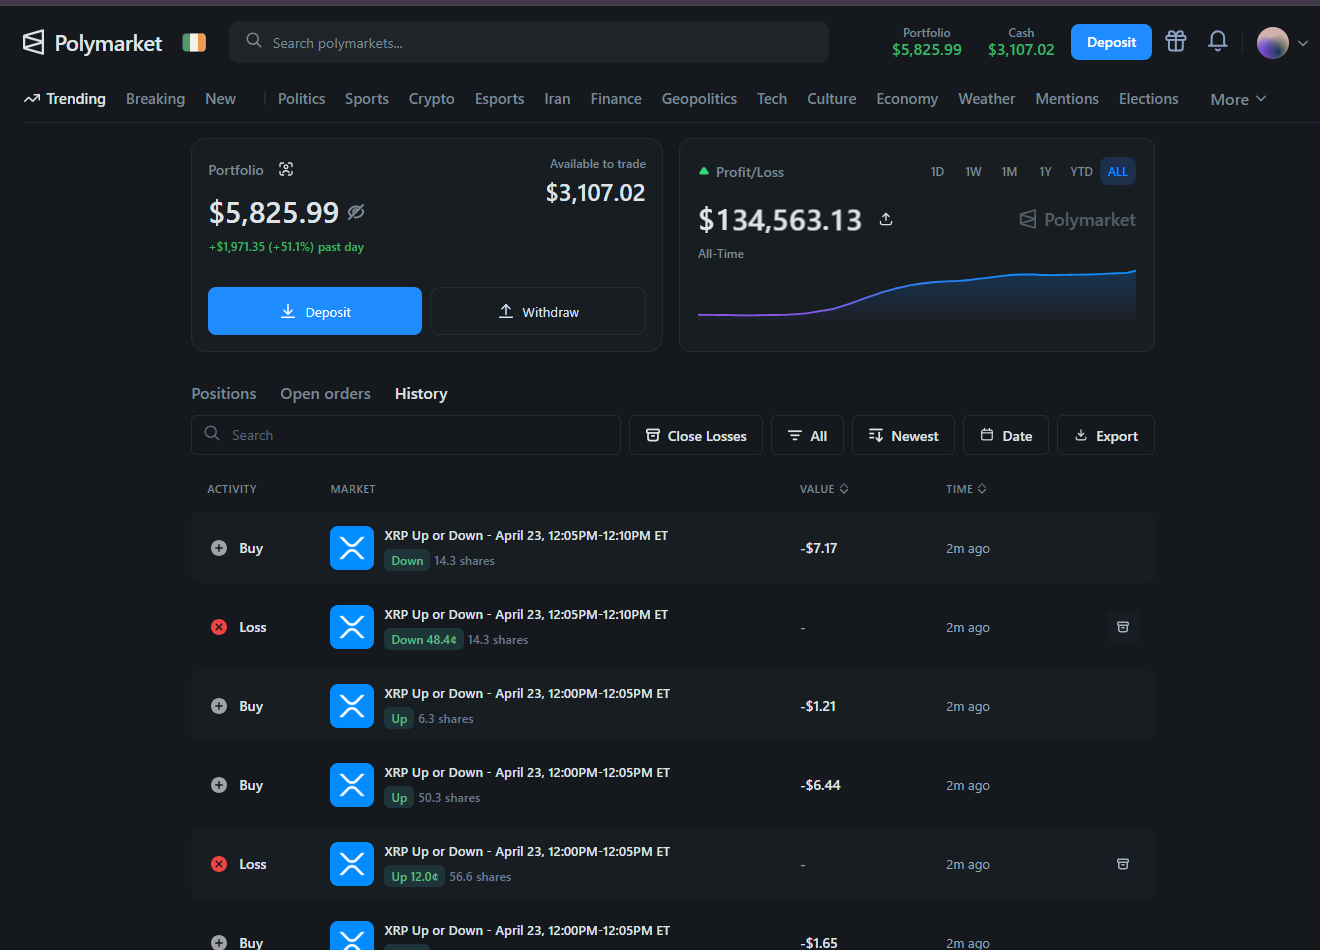
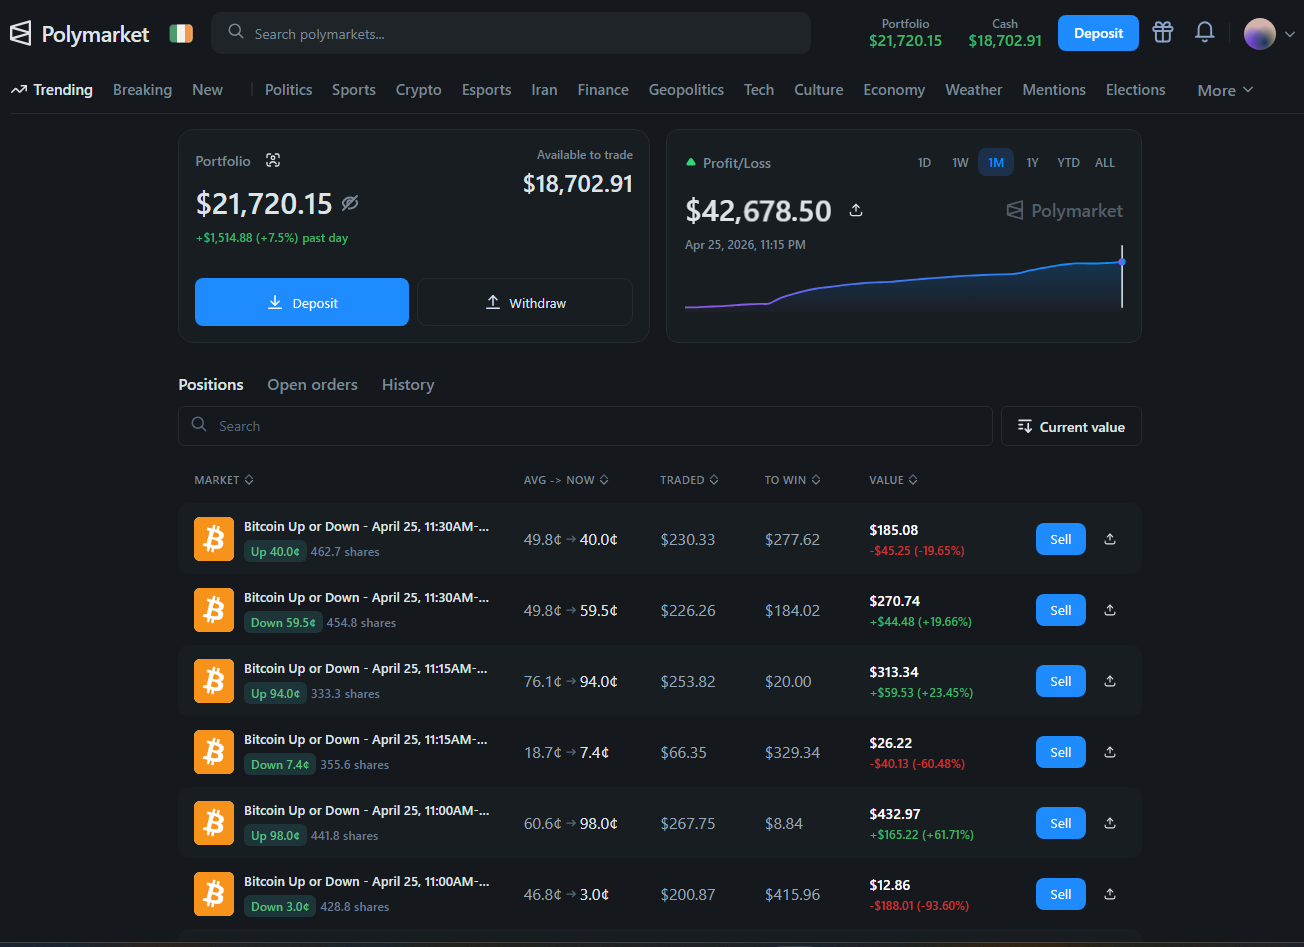
docs: refresh README and sync screenshots for Orbital-Alpha repo
Made-with: Cursor

diff --git a/README.md b/README.md
@@ -1,8 +1,18 @@
 # Polymarket BTC Up/Down Trading Bot
 
-**Repository:** [https://github.com/SmartOrder-Systems/polymarket-copy-trading-bot](https://github.com/SmartOrder-Systems/polymarket-copy-trading-bot)
+**Repository:** [https://github.com/Orbital-Alpha/polymarket-copy-trading-bot](https://github.com/Orbital-Alpha/polymarket-copy-trading-bot)
 
-A professional-grade Node.js trading bot for Polymarket short-duration Up/Down markets on Polygon.
+A production-oriented Node.js trading bot for Polymarket short-duration Up/Down markets on Polygon, with both arbitrage and copy-trading workflows.
+
+## Why this repository
+
+This project is built for users who need an operational trading runtime instead of a toy script:
+
+- Real CLOB authentication and order execution on Polymarket
+- On-chain approvals, merge, and redeem transaction flows
+- Real-time order-book monitoring via WebSocket with fallback logic
+- Configurable risk limits, circuit breakers, and graceful shutdown behavior
+- Dedicated copy-trading path for mirroring selected wallet activity
 
 This repository contains:
 
@@ -34,9 +44,9 @@ The repository also supports copy-trading workflows for users who want to follow
 
 ## Screenshots
 
-The following screenshots come from the workflow this repo is built around: portfolio growth, detailed history, redeems, and mixed trade activity.
+The following screenshots show the workflow this bot targets.
 
-### Performance Views
+### Performance
 
 ![1D performance view](img/Screenshot_3.png)
 
@@ -44,11 +54,40 @@ The following screenshots come from the workflow this repo is built around: port
 
 ![All-time performance view](img/Screenshot_2.png)
 
-### Trade and Redeem History
+### Activity Snapshot
 
-![Redeem-heavy history view](img/Screenshot_4.png)
+![Trading activity snapshot](img/G7o1D49WcAErNMi.png)
 
-![Mixed buy, loss, and redeem activity](img/Screenshot_5.png)
+## Detailed Runbook
+
+1. Install dependencies:
+
+```bash
+npm install
+```
+
+2. Create your local environment file:
+
+```powershell
+Copy-Item .env.example .env
+```
+
+or:
+
+```bash
+cp .env.example .env
+```
+
+3. Configure at minimum:
+- `PRIVATE_KEY`
+- `PROXY_WALLET`
+- `POLYGON_RPC` (strongly recommended)
+
+4. Start with conservative limits and run:
+
+```bash
+npm start
+```
 
 ## Key Features
 